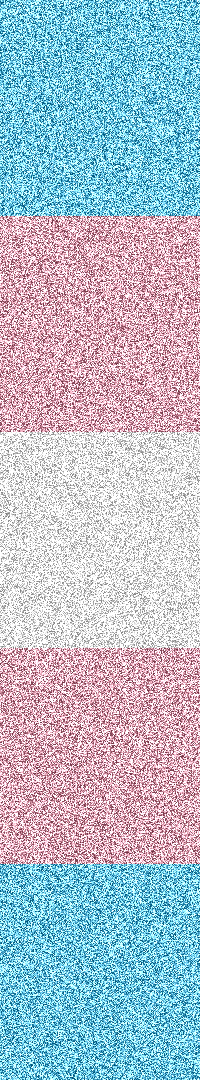
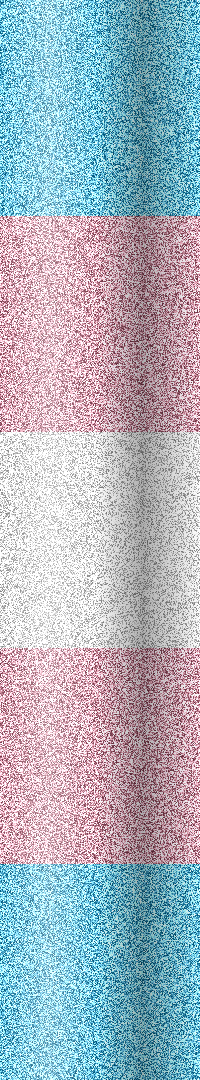
improved examples

diff --git a/examples/index.html b/examples/index.html
@@ -62,7 +62,7 @@
     <view-stereogram
         depth-src="brick-depth.png"
         pattern-src="brick-pattern.png"
-        contrast="0.65"
+        contrast="0.35"
         invert
     ></view-stereogram>
     <p>It turns out that pride flags, varying vertically but not horizontally, are really good patterns for stereograms (if you throw some noise on them).</p>
@@ -73,7 +73,7 @@
     <view-stereogram
         depth-src="blahaj-depth.png"
         pattern-src="blahaj-pattern.png"
-        contrast="0.65"
+        contrast="0.35"
     ></view-stereogram>
     <p>The depth map in this is rendered by me from a model from <a href="https://sketchfab.com/3d-models/blahaj-ce981de49111488c81ea646067abe1ec#download">here</a>, and the title is <a href="https://mathstodon.xyz/@greytheearthling@queer.party/114579977603272634">Grey's</a>.</p>
 </section>
@@ -97,14 +97,6 @@
     <a href="https://github.com/andrew-t/stereograms">Source code</a>
     <a href="https://www.andrewt.net">The rest of my website</a>
 </nav>
-
-<article>
-    <section>
-        <p class="smol">
-            Thanks to <a href="https://www.youtube.com/watch?v=uvXY99HysrU">LGR's stereogram video</a> for reminding me about these things and refreshing my memory of some of the details in this explainer. And shoutout to Karen Puzzles for also putting out <a href="https://www.youtube.com/watch?v=rHDfqeXBk8U">a Magic Eye video</a> less than a day later. (This must have been coincidence because nobody could have put that video together so quickly.)
-        </p>
-    </section>
-</article>
 
 <script src="../view-stereogram.js" type="module"></script>
 </body>
